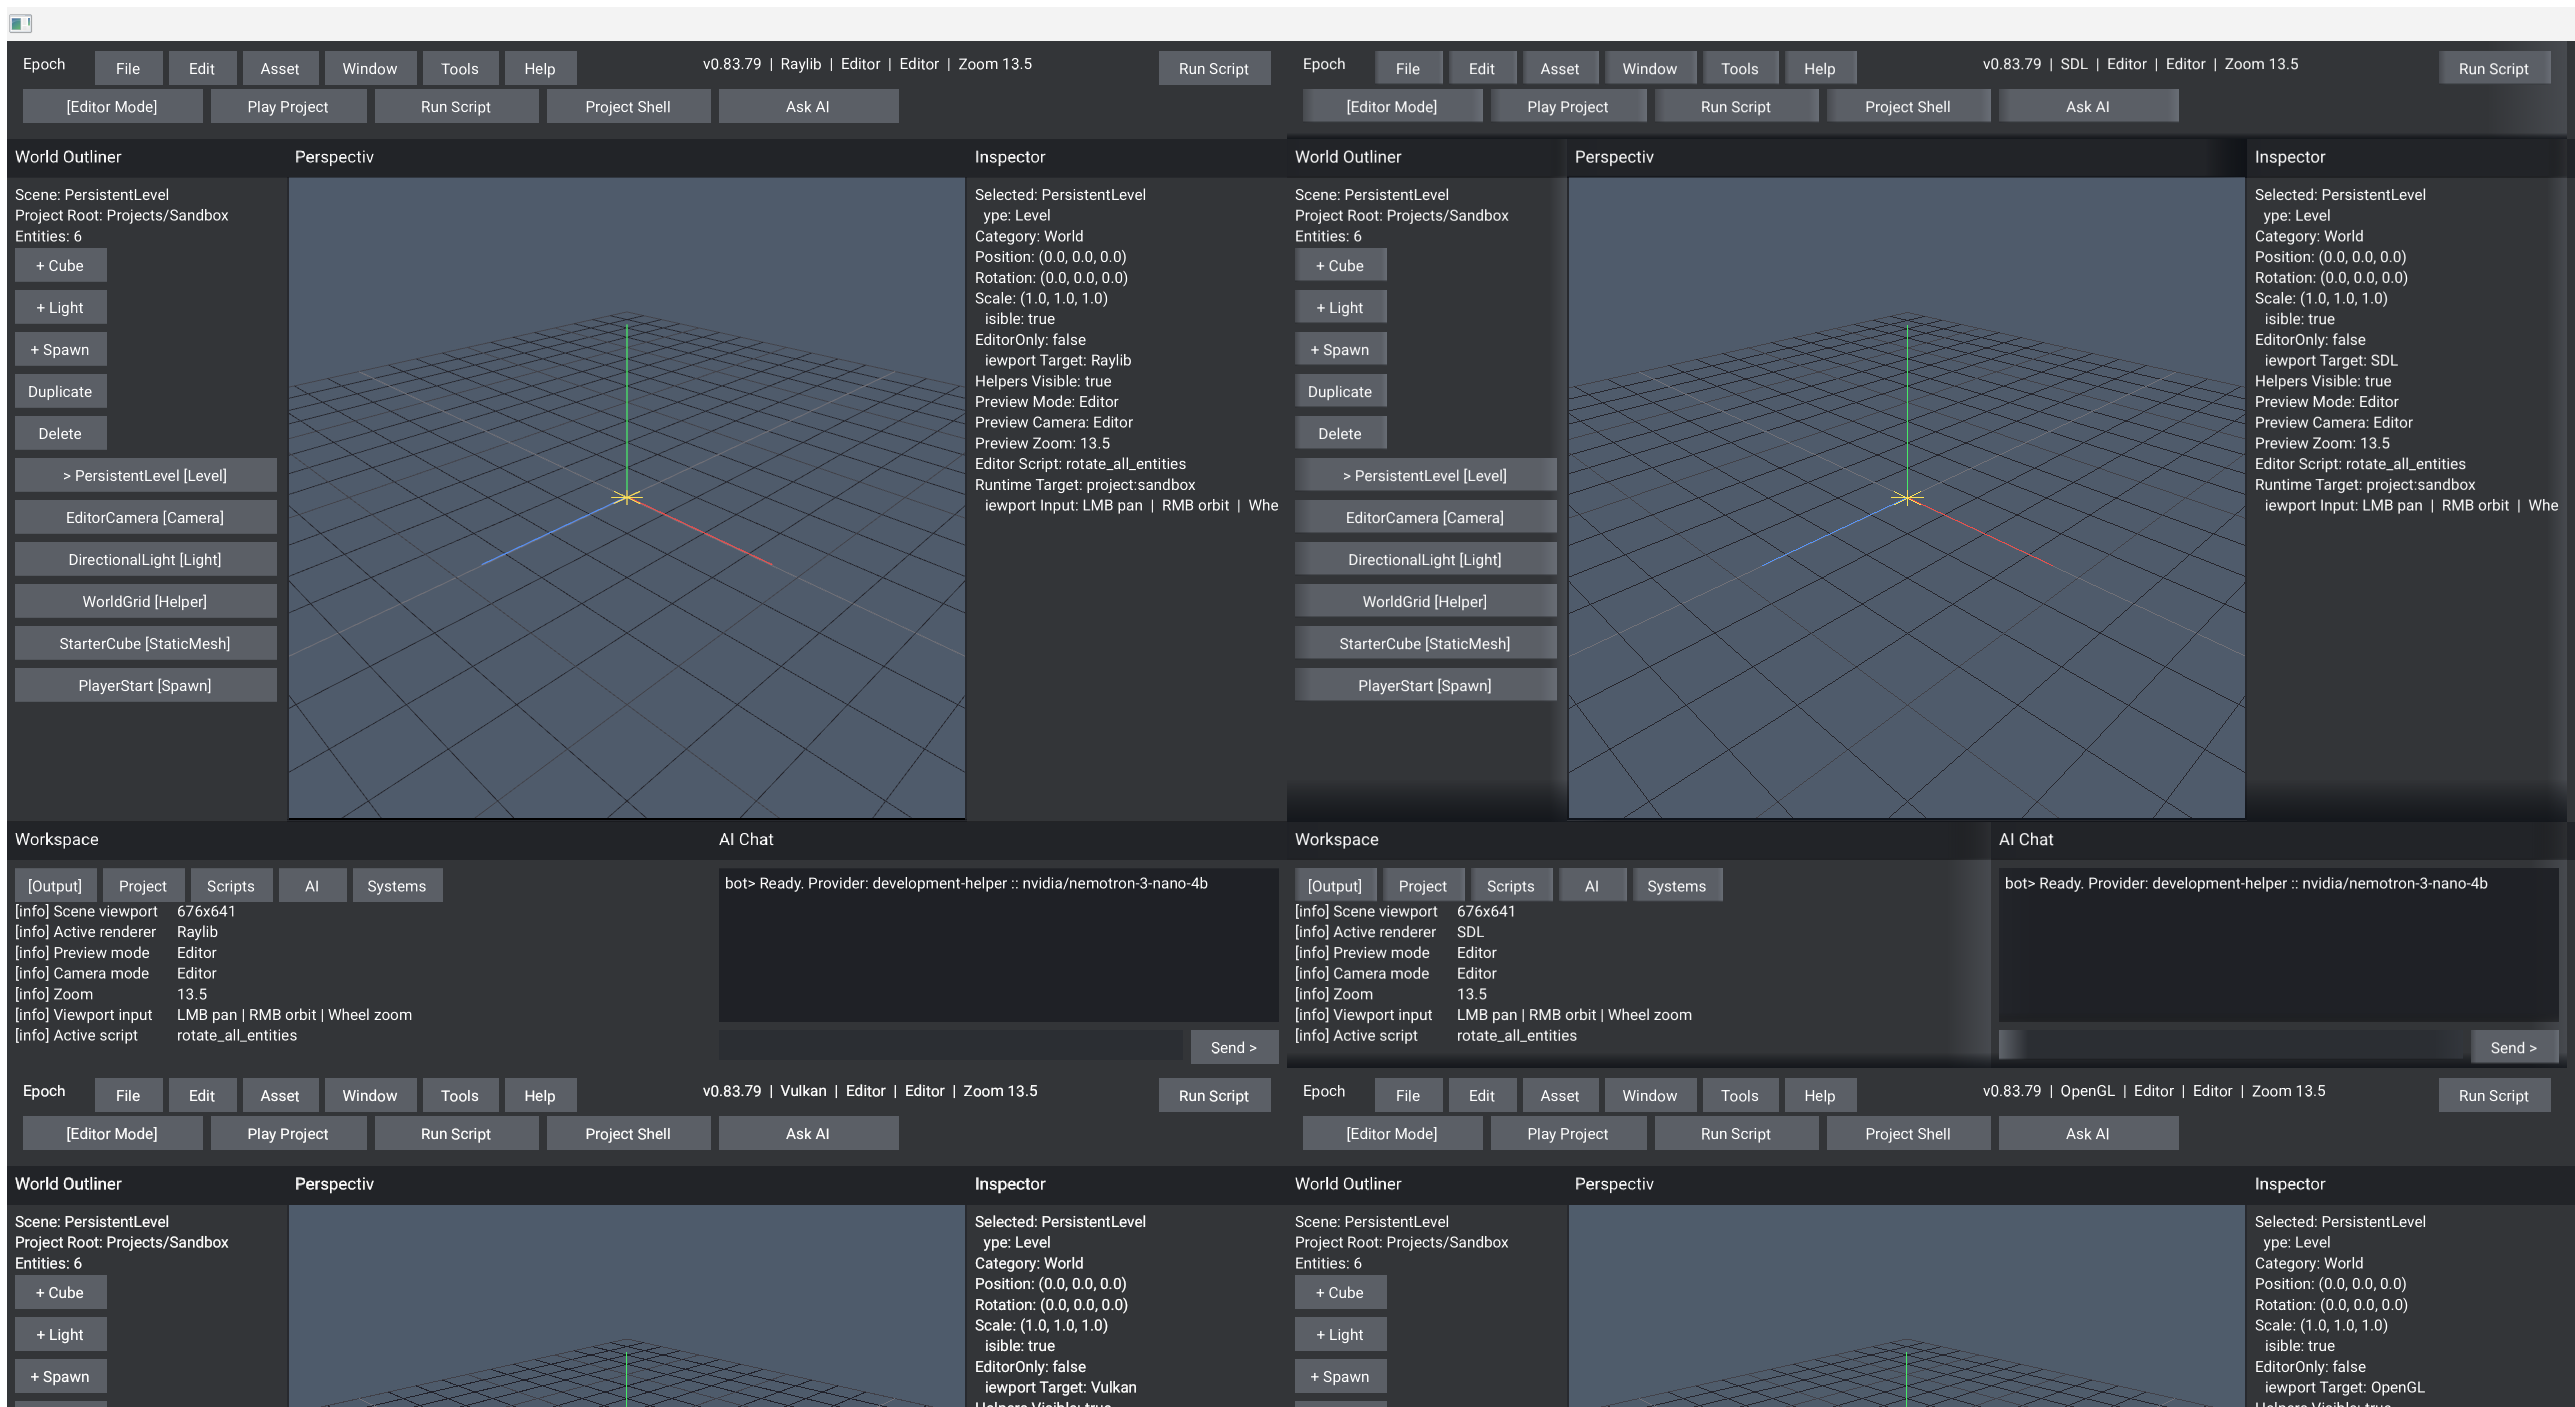
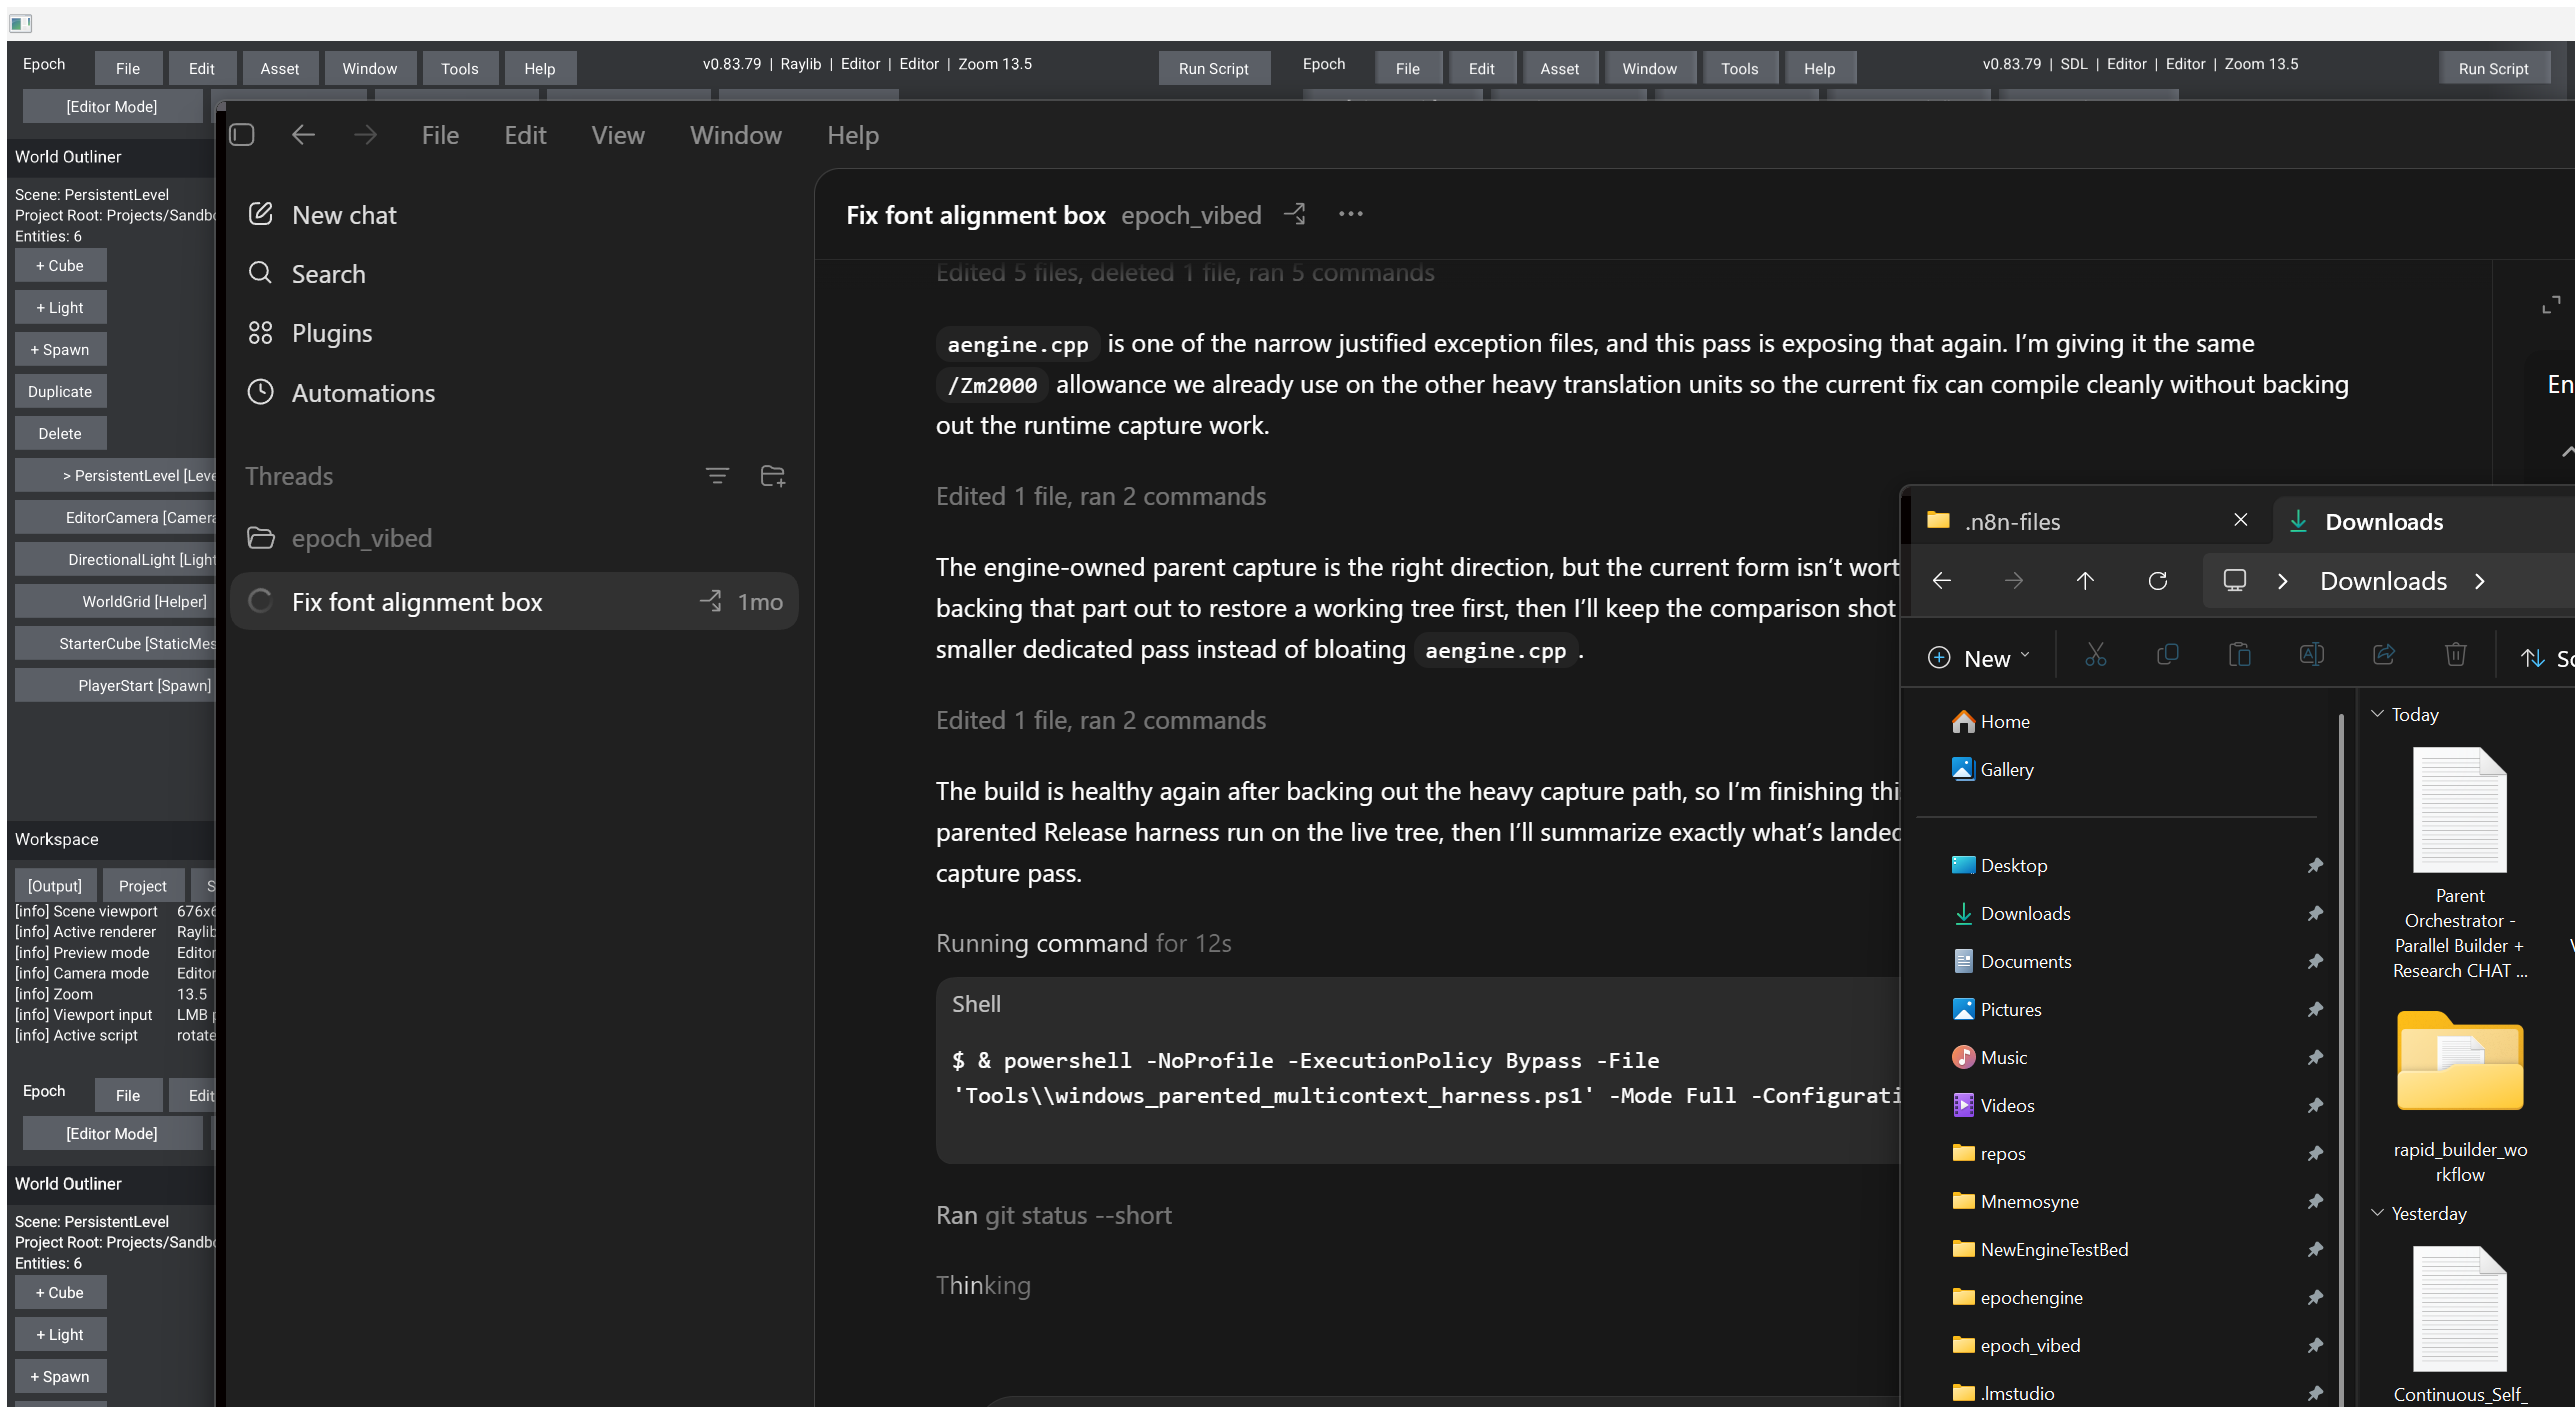
Tighten multicontext sizing and refresh proof image

diff --git a/Engine/src/main.cpp b/Engine/src/main.cpp
@@ -74,6 +74,51 @@ namespace
         }
 #endif
     }
+
+    void configure_windows_dpi_awareness()
+    {
+        using SetProcessDpiAwarenessContextFn = BOOL(WINAPI*)(HANDLE);
+        using SetProcessDpiAwarenessFn = HRESULT(WINAPI*)(int);
+        using SetProcessDPIAwareFn = BOOL(WINAPI*)();
+
+        if (HMODULE user32 = ::LoadLibraryW(L"user32.dll"))
+        {
+            if (auto setAwarenessContext =
+                reinterpret_cast<SetProcessDpiAwarenessContextFn>(
+                    ::GetProcAddress(user32, "SetProcessDpiAwarenessContext")))
+            {
+                if (setAwarenessContext(DPI_AWARENESS_CONTEXT_PER_MONITOR_AWARE_V2))
+                {
+                    ::FreeLibrary(user32);
+                    return;
+                }
+            }
+
+            if (auto setDpiAware =
+                reinterpret_cast<SetProcessDPIAwareFn>(
+                    ::GetProcAddress(user32, "SetProcessDPIAware")))
+            {
+                if (setDpiAware())
+                {
+                    ::FreeLibrary(user32);
+                    return;
+                }
+            }
+
+            ::FreeLibrary(user32);
+        }
+
+        if (HMODULE shcore = ::LoadLibraryW(L"shcore.dll"))
+        {
+            if (auto setAwareness =
+                reinterpret_cast<SetProcessDpiAwarenessFn>(
+                    ::GetProcAddress(shcore, "SetProcessDpiAwareness")))
+            {
+                (void)setAwareness(2 /* PROCESS_PER_MONITOR_DPI_AWARE */);
+            }
+            ::FreeLibrary(shcore);
+        }
+    }
 #endif
 
 }
@@ -81,6 +126,7 @@ namespace
 int main(int argc, char** argv)
 {
 #if defined(_WIN32)
+    configure_windows_dpi_awareness();
     configure_unattended_windows_error_mode();
 #endif
     try
@@ -135,4 +181,3 @@ int main(int argc, char** argv)
         return -1;
     }
 }
-

diff --git a/Engine/src/aeditor.cpp b/Engine/src/aeditor.cpp
@@ -1115,8 +1115,11 @@ namespace epochnamespace
         auto& chat = chat_state_for(ctx);
         chat.pump();
 
-        const float w = static_cast<float>(ctx->get_width_safe());
-        const float h = static_cast<float>(ctx->get_height_safe());
+        // Editor GUI layout should follow the live pane client size, not the
+        // backend framebuffer size, so parented multicontext panes do not
+        // bleed across neighbors under Windows DPI scaling.
+        const float w = static_cast<float>((std::max)(1, ctx->width));
+        const float h = static_cast<float>((std::max)(1, ctx->height));
 
         const float toolbar_h = 98.0f;
         const float bottom_h = (std::max)(220.0f, h * 0.24f);

diff --git a/Engine/src/aengine.cpp b/Engine/src/aengine.cpp
@@ -1066,8 +1066,8 @@ namespace epochnamespace::core
                 const bool mouse_right_down =
                     ctx->is_mouse_button_held_safe(epochnamespace::input::MouseButton::MouseRight);
 
-                const int width = ctx->get_width_safe();
-                const int height = ctx->get_height_safe();
+                const int width = (std::max)(1, ctx->width > 0 ? ctx->width : ctx->get_width_safe());
+                const int height = (std::max)(1, ctx->height > 0 ? ctx->height : ctx->get_height_safe());
                 ctx->clear_safe();
                 ctx->set_scene_preview_mode(core::ScenePreviewMode::Editor);
                 ctx->set_scene_viewport({ 0, 0, width, height });

diff --git a/Engine/docs/smoke_capture_automation.md b/Engine/docs/smoke_capture_automation.md
@@ -100,6 +100,9 @@ Prefer engine-owned capture over ad hoc desktop grabs whenever possible.
 - refresh the README multicontext proof at least every 10th feature version, or
   sooner whenever visible renderer color, layout, or docking behavior changes
   enough that the existing proof is misleading
+- the current PowerShell harness screenshot is diagnostic proof, not the final
+  long-term screenshot system; the target remains an engine-owned parent-window
+  proof path for fullscreen multicontext captures
 - if the engine-owned software capture path is black or otherwise invalid, use
   an honest asset-bearing desktop capture from `x64/Debug` or `x64/Release`
   instead of publishing a misleading proof image

diff --git a/README.md b/README.md
@@ -141,6 +141,9 @@ Windows editor fullscreen six-context multicontext proof, source `v0.83.79`:
   <img src="Images/readme/windows-multicontext-editor-v08379.png" alt="Epoch Windows editor fullscreen six-context multicontext proof" />
 </p>
 
+Open the PNG directly for native resolution when checking all six panes. GitHub's
+page scaling can make the third column and lower row harder to read at a glance.
+
 ---
 
 Windows editor backend proofs, source `v0.83.41`:
